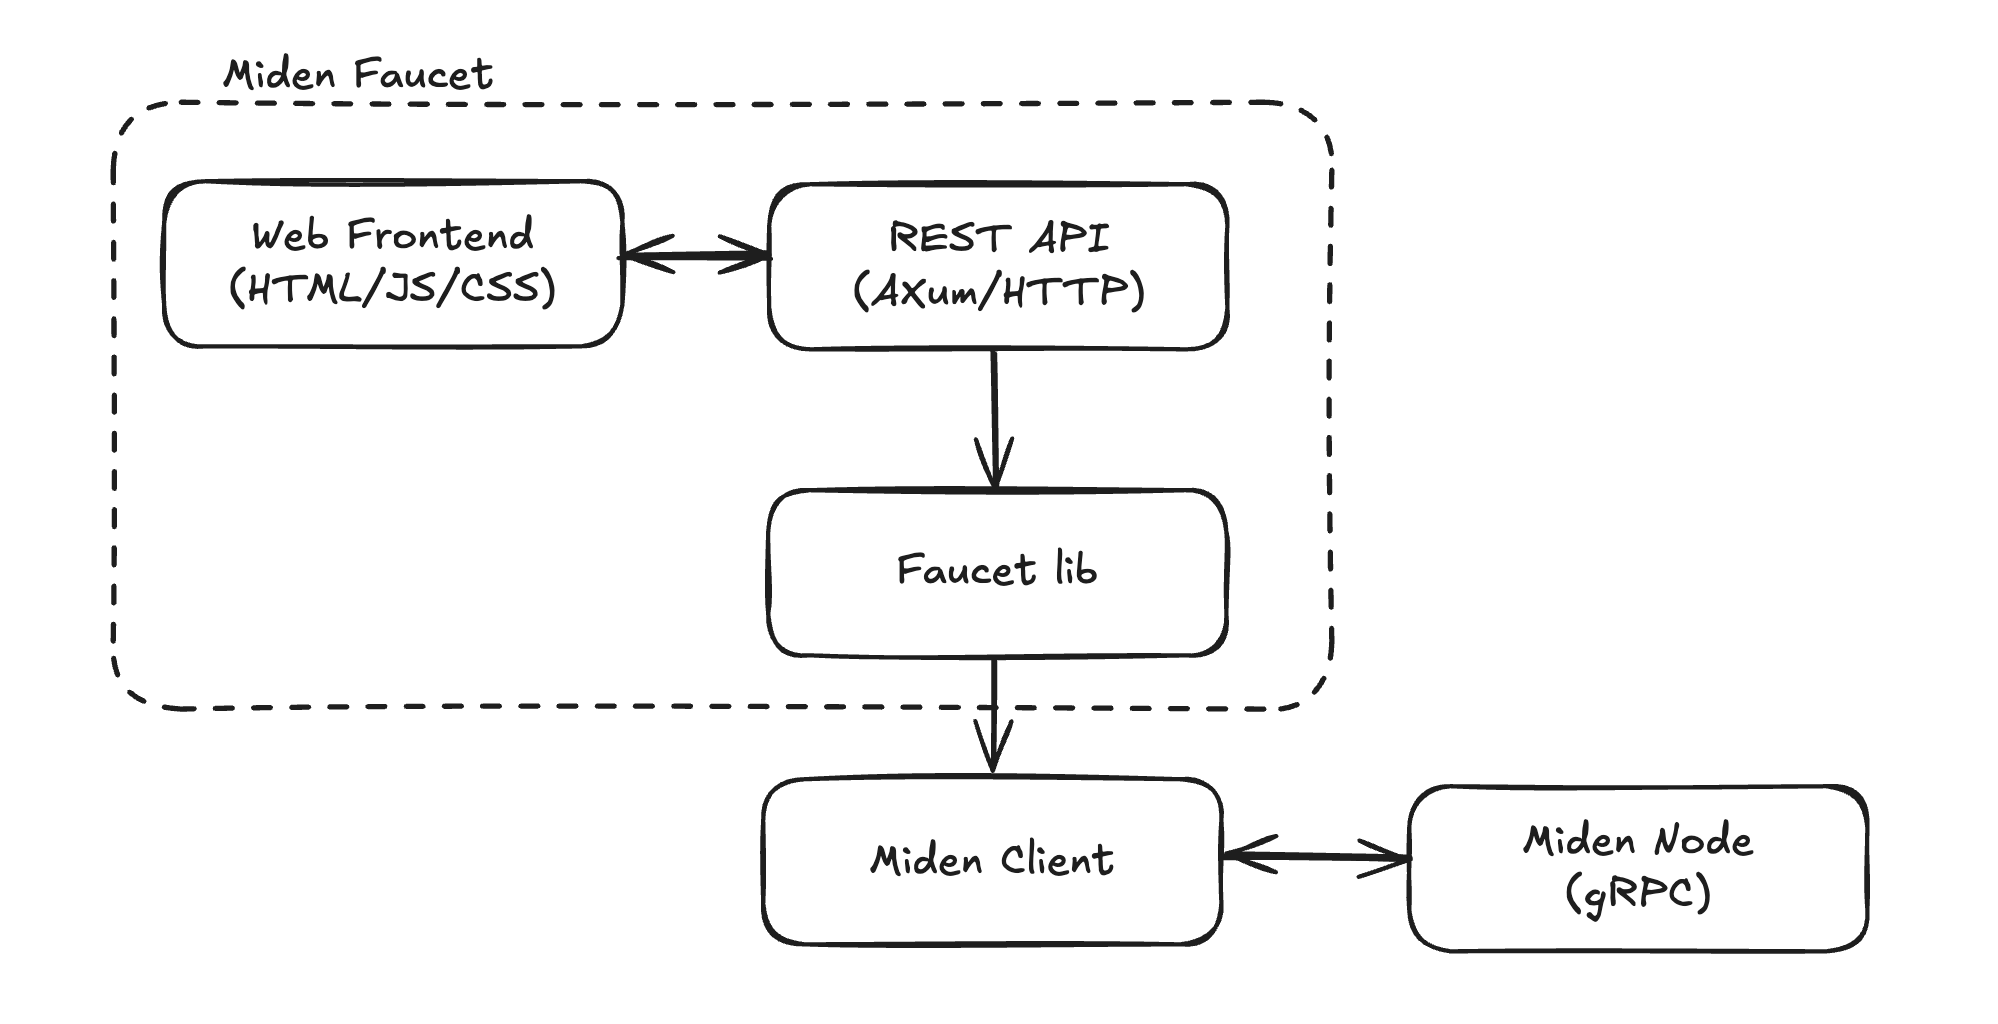
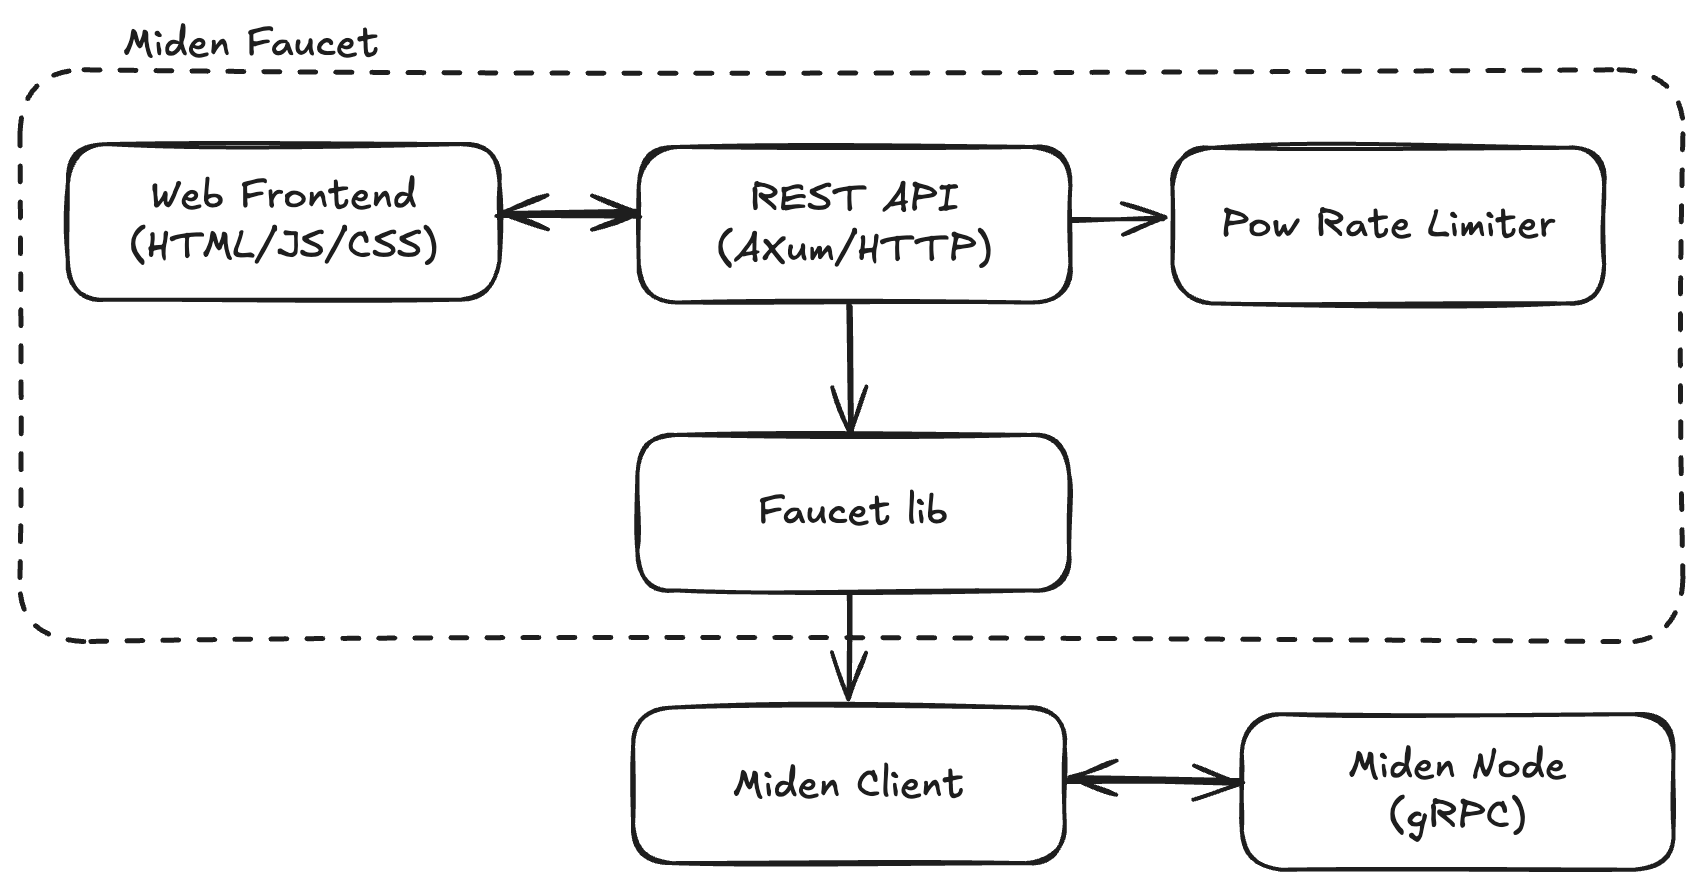
chore: update architecture docs

diff --git a/docs/src/architecture/overview.md b/docs/src/architecture/overview.md
@@ -27,8 +27,6 @@ The high-level structure of the project looks like follows:
 - **Purpose**: HTTP API endpoints for programmatic access
 - **Features**:
    - Input parsing and validation
-   - PoW challenges validation
-   - Rate limiting
    - Handle account metadata
 
 ### 3. Faucet lib
@@ -40,7 +38,14 @@ The high-level structure of the project looks like follows:
   - Notes creation
   - Token issuance tracking
 
-### 4. Miden Client
+### 4. Pow Rate Limiter
+- **Technology**: Rust library (`crates/pow`)
+- **Purpose**: Proof of Work rate limiter
+- **Features**:
+   - PoW challenges issuing, tracking and validation
+   - Rate limiting
+
+### 5. Miden Client
 - **Purpose**: Connection with the Miden Node
 - **Features**:
   - Transaction creation, execution, and submission
